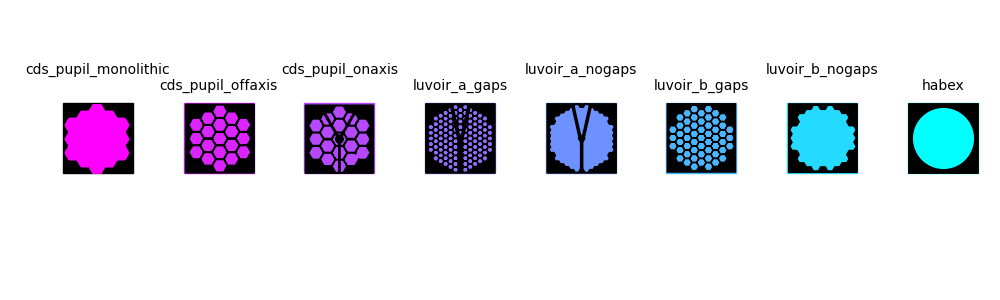
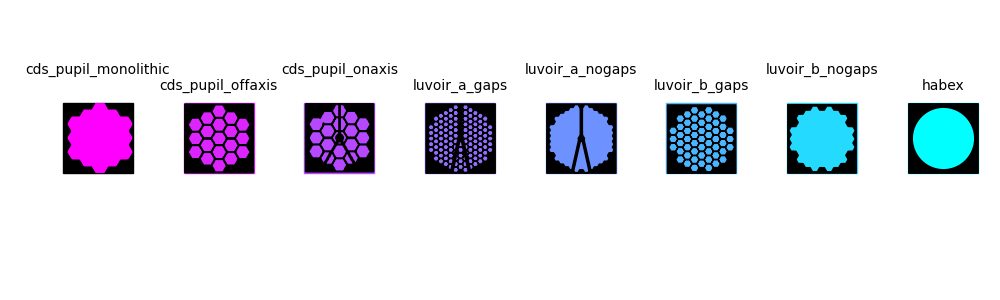
removed 180deg rotation of aperture

diff --git a/hwo_custom_markers/generate_custom_markers.py b/hwo_custom_markers/generate_custom_markers.py
@@ -43,7 +43,6 @@ def get_historic_markers():
 
         custom_marker = parse_path(attributes[0]['d'])
         custom_marker.vertices -= custom_marker.vertices.mean(axis=0)
-        custom_marker = custom_marker.transformed(mpl.transforms.Affine2D().rotate_deg(180))
         custom_marker = custom_marker.transformed(mpl.transforms.Affine2D().scale(-1, 1))
 
         custom_markers[aperture_name] = custom_marker

diff --git a/README.md b/README.md
@@ -20,7 +20,7 @@ python setup.py
 
 ## Demo
 ```bash
-import hwo_custom_markers
+import hwo_custom_markers.generate_custom_markers
 import matplotlib.pyplot as plt
 markers = hwo_custom_markers.generate_custom_markers.get_historic_markers()
 
